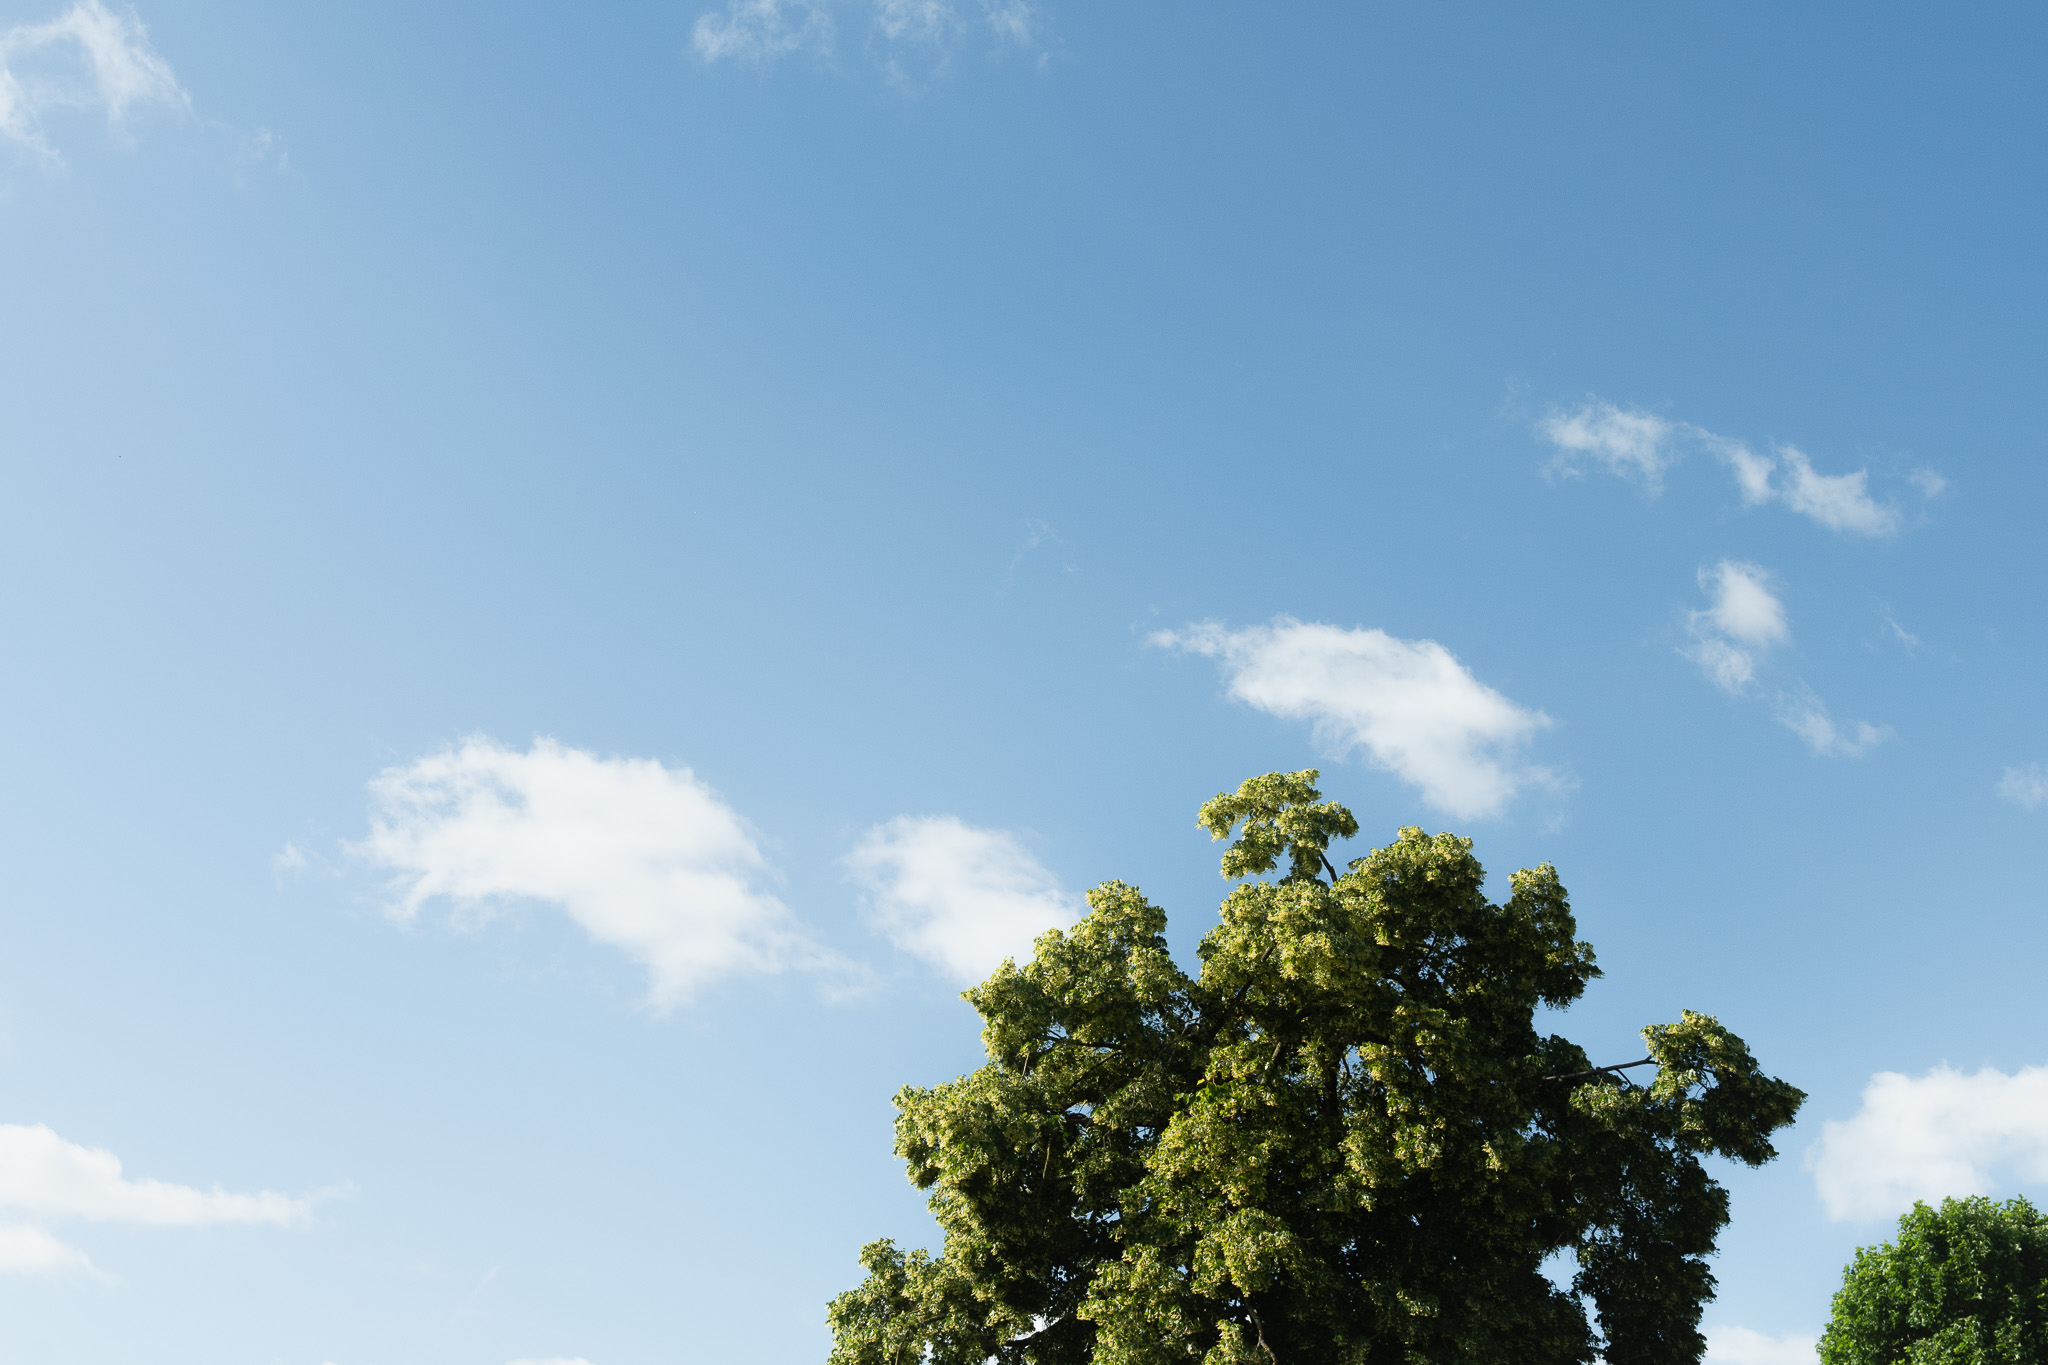
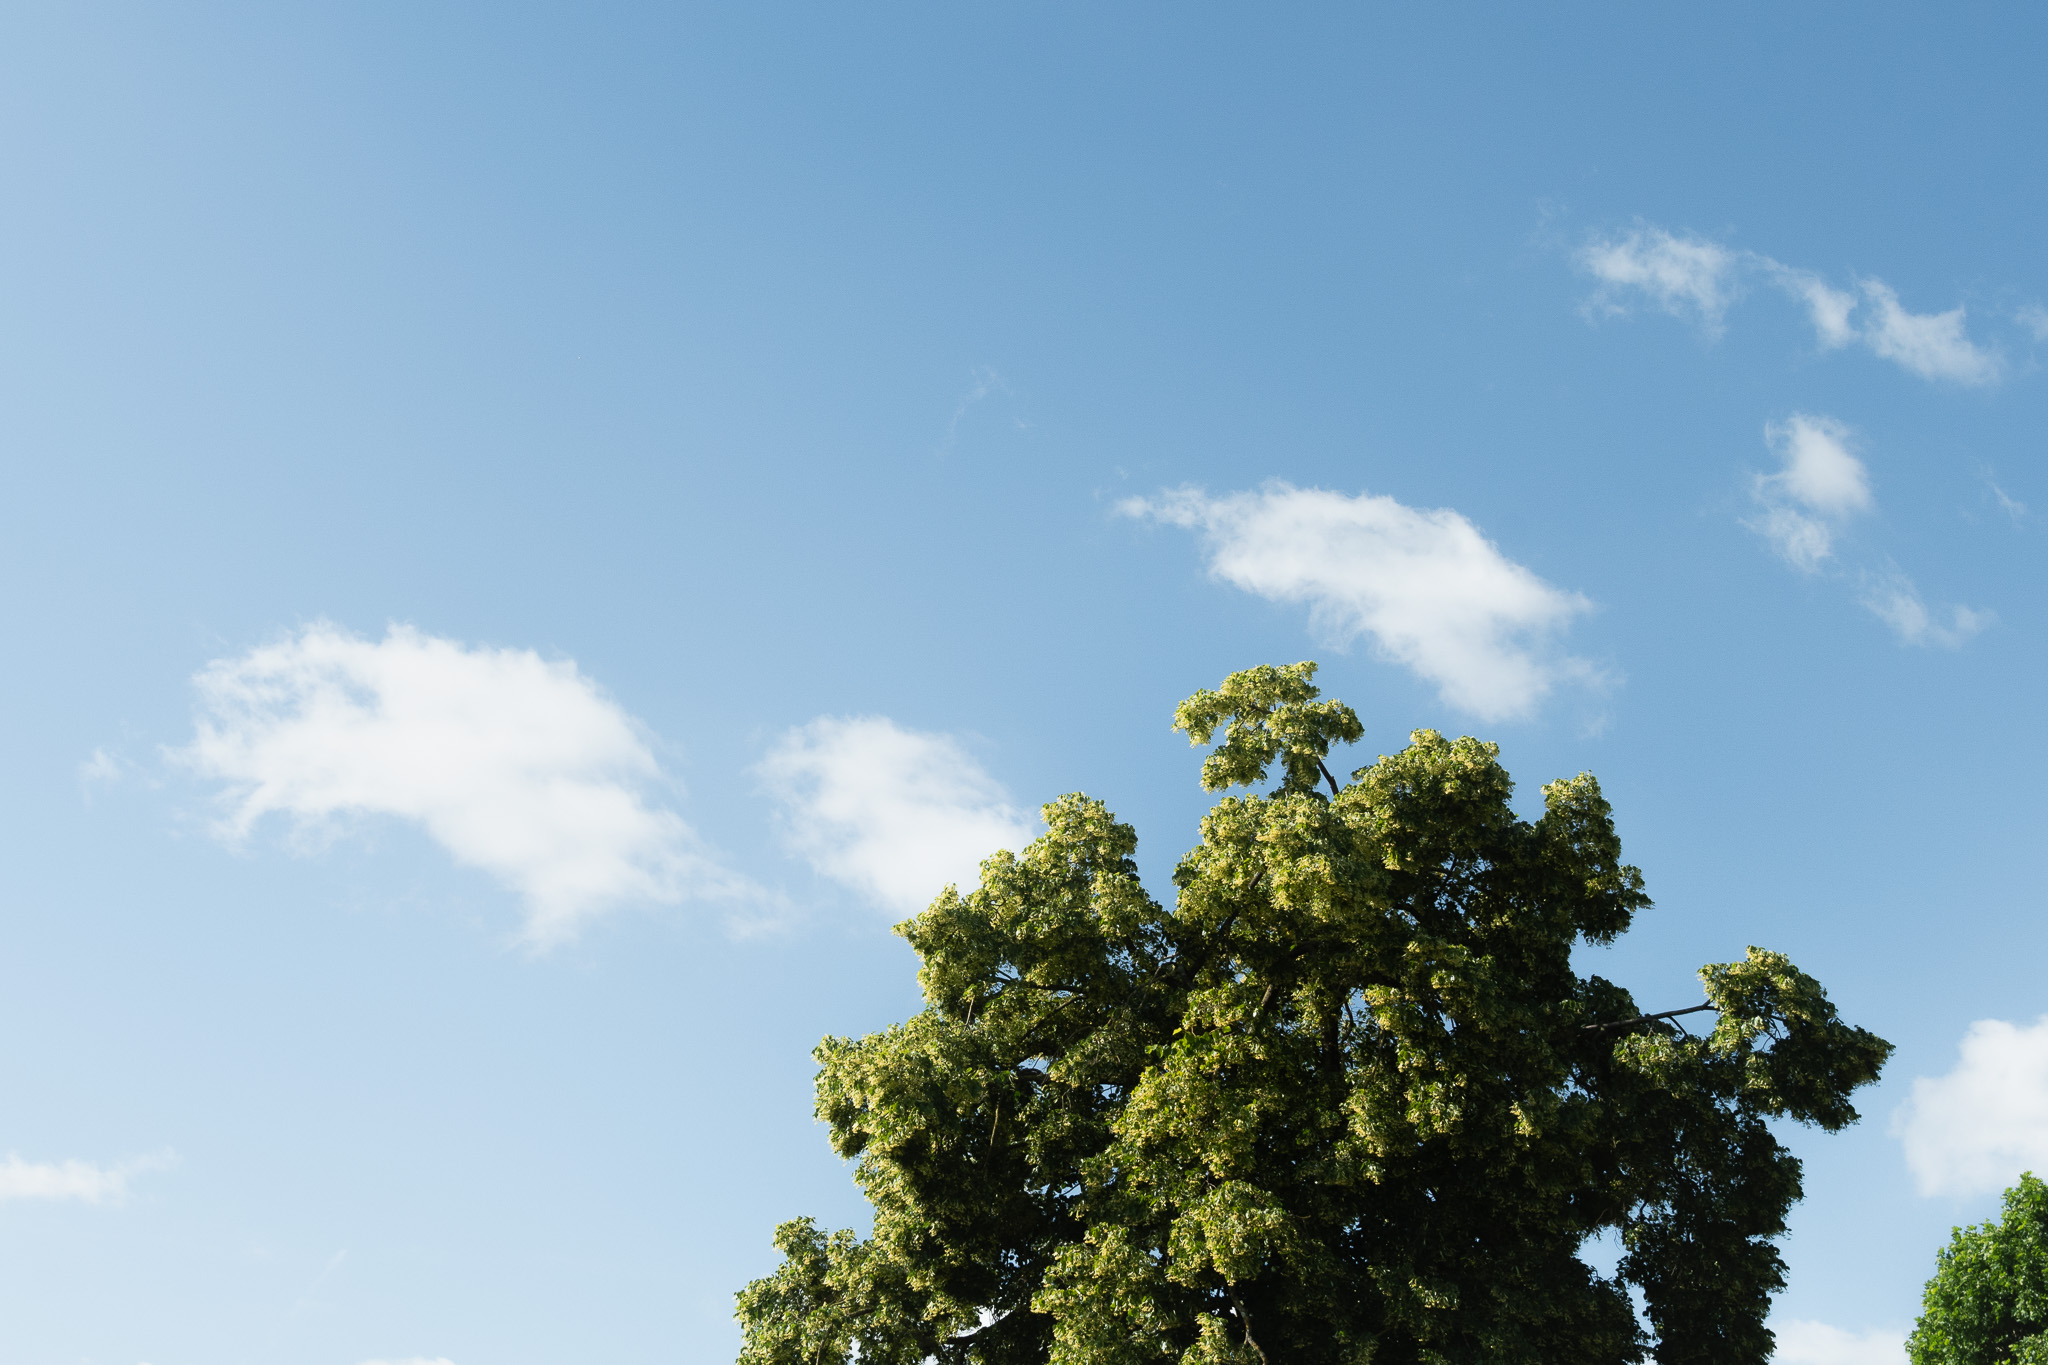
margin collapse was the problem! yippeee

diff --git a/src/script.ts b/src/script.ts
@@ -1,53 +1,52 @@
 import "./style.css"
-import "./shader"
-import gsap from 'gsap'
-import { ScrollTrigger } from 'gsap/ScrollTrigger'
-import { ScrollSmoother } from 'gsap/ScrollSmoother'
+// import "./shader"
 
-gsap.registerPlugin(ScrollTrigger, ScrollSmoother);
+import { gsap } from "gsap";
+import { RoughEase } from "gsap/EasePack";
+import { ScrollTrigger } from "gsap/ScrollTrigger";
+import { ScrollSmoother } from "gsap/ScrollSmoother";
 
-ScrollSmoother.create({
-    content: "main",
-    smooth: 0.5,
-    effects: true,
-});
+gsap.registerPlugin(ScrollTrigger, ScrollSmoother, RoughEase);
 
-ScrollTrigger.defaults({
-    // markers: true,
-})
+document.addEventListener("DOMContentLoaded", () => {
+    ScrollSmoother.create({
+        content: "main",
+        smooth: 0.5,
+        effects: true,
+    });
 
-ScrollTrigger.create({
-    id: "old-new",
-    trigger: "section#now",
-    start: "top top",
-    end: "bottom top",
-    pin: true,
-    scrub: 0.5,
-    animation: gsap.timeline().to("section#now .new", {
-        opacity: 1,
-        ease: "power1.out",
-        delay: 0.1,
-    }, 0).to("section#now .old", {
-        delay: 0.1,
-        opacity: 0,
-        ease: "power1.out",
-    }, 0),
-})
+    const roughEase = "rough({template: elastic.inOut, points: 100, randomize:true, clamp:true})";
 
-ScrollTrigger.create({
-    id: "ai-1",
-    trigger: "section#goneplenty",
-    start: "top top",
-    end: "bottom top",
-    // pin: "section#goneplenty .img-wrapper",
-    scrub: 0.5,
-    animation: gsap.timeline().to("section#goneplenty img.ai", {
-        opacity: 1,
-        ease: "power1.out",
-        delay: 0.1,
-    }).to("section#goneplenty img.empty", {
-        opacity: 0,
-        ease: "power1.out",
-        delay: 0.1,
+    ScrollTrigger.create({
+        id: "old-new",
+        trigger: "section#now",
+        start: "center center",
+        end: "center+=100 center",
+        scrub: 0.5,
+        animation: gsap.timeline().to("section#now .new", {
+            opacity: 1,
+            ease: "power1.out",
+        }, 0).to("section#now .old", {
+            ease: "power1.out",
+            opacity: 0,
+        }, 0),
     })
+
+    ScrollTrigger.create({
+        id: "ai-1",
+        trigger: "section#goneplenty img.ai",
+        start: "center center",
+        end: "center center",
+        toggleActions: "play none reverse none",
+        animation: gsap.timeline().to("section#goneplenty img.ai", {
+            opacity: 1,
+            ease: roughEase,
+            duration: 0.5,
+        }).to("section#goneplenty img.empty", {
+            opacity: 0,
+            ease: roughEase,
+            duration: 0.5,
+        })
+    })
+
 })

diff --git a/src/style.css b/src/style.css
@@ -31,7 +31,8 @@ img {
 }
 
 main {
-    padding-bottom: 100svh;
+    display: flex;
+    flex-direction: column;
 }
 
 section {
@@ -40,7 +41,7 @@ section {
     gap: 8px;
     padding: 8px;
     align-items: start;
-    margin: 50svh 0;
+    margin: 25svh 0;
 }
 
 section#oldenough {
@@ -125,19 +126,19 @@ section#thosewerethedays {
         text-align: center;
         grid-column: 6 / 8;
         background-color: #fafaff;
-        /* padding-top: 128px;
-        padding-bottom: 386px; */
     }
 }
 
 section#now {
 
+    margin: 50svh 0;
     height: 100svh;
     align-items: center;
 
     .switcher {
         grid-column: 6 / 12;
         position: relative;
+        aspect-ratio: 3 / 2;
 
         img {
             position: absolute;
@@ -146,13 +147,13 @@ section#now {
         }
 
         img.old {
-            transform: scale(0.96) translate(-1.441%, 21.141%);
+            transform: scale(1.135) translate(-3.9%, 13.2%);
         }
     }
 
     img.new-sidekick {
         grid-column: 2 / 6;
-        margin-top: 40%;
+        margin-top: 78%;
     }
 
     .new {
@@ -162,6 +163,7 @@ section#now {
 
 section#arentsoeasy {
     row-gap: 50svh;
+    margin-top: 50svh;
 
     p {
         text-align: center;
@@ -255,6 +257,7 @@ section#emptyspread {
 
 section#goneplenty {
 
+    align-items: end;
     
     & > div {
         padding: 50svh 0;
@@ -266,9 +269,11 @@ section#goneplenty {
 
     div.img-wrapper {
         position: relative;
+        aspect-ratio: 3 / 2;
 
         img {
             position: absolute;
+            bottom: 0;
         }
 
         img.ai {
@@ -279,8 +284,8 @@ section#goneplenty {
     div.text-col {
         grid-column: 10 / 13;
 
-        p {
-            margin-bottom: 80svh;
+        p:first-of-type {
+            margin-bottom: 100svh;
         }
     }
 }

diff --git a/index.html b/index.html
@@ -46,12 +46,12 @@
         <section id="thosewerethedays">
             <p data-speed="0.8">Those were the days.</p>
         </section>
-        <section id="now">
+        <section id="now" data-speed="0.5">
+            <img class="new new-sidekick" src="/public/10.jpg" />
             <div class="switcher">
                 <img class="new" src="/public/9.jpg" />
                 <img class="old" src="/public/8.jpg" />
             </div>
-            <img class="new new-sidekick" src="/public/10.jpg" />
         </section>
         <section id="arentsoeasy">
             <p data-speed="0.8">Now, things aren't so easy.</p>
@@ -92,9 +92,12 @@
             </div>
             <div class="text-col">
                 <p>Gone are the days of plenty.</p>
-                <p>Now you have to do things yourself.</p>
+                <p class="trigger">Now you have to do things yourself.</p>
             </div>
         </section>
+        <!-- <section>
+            
+        </section> -->
 
     </main>
     <script type="module" src="/src/script.ts"></script>
